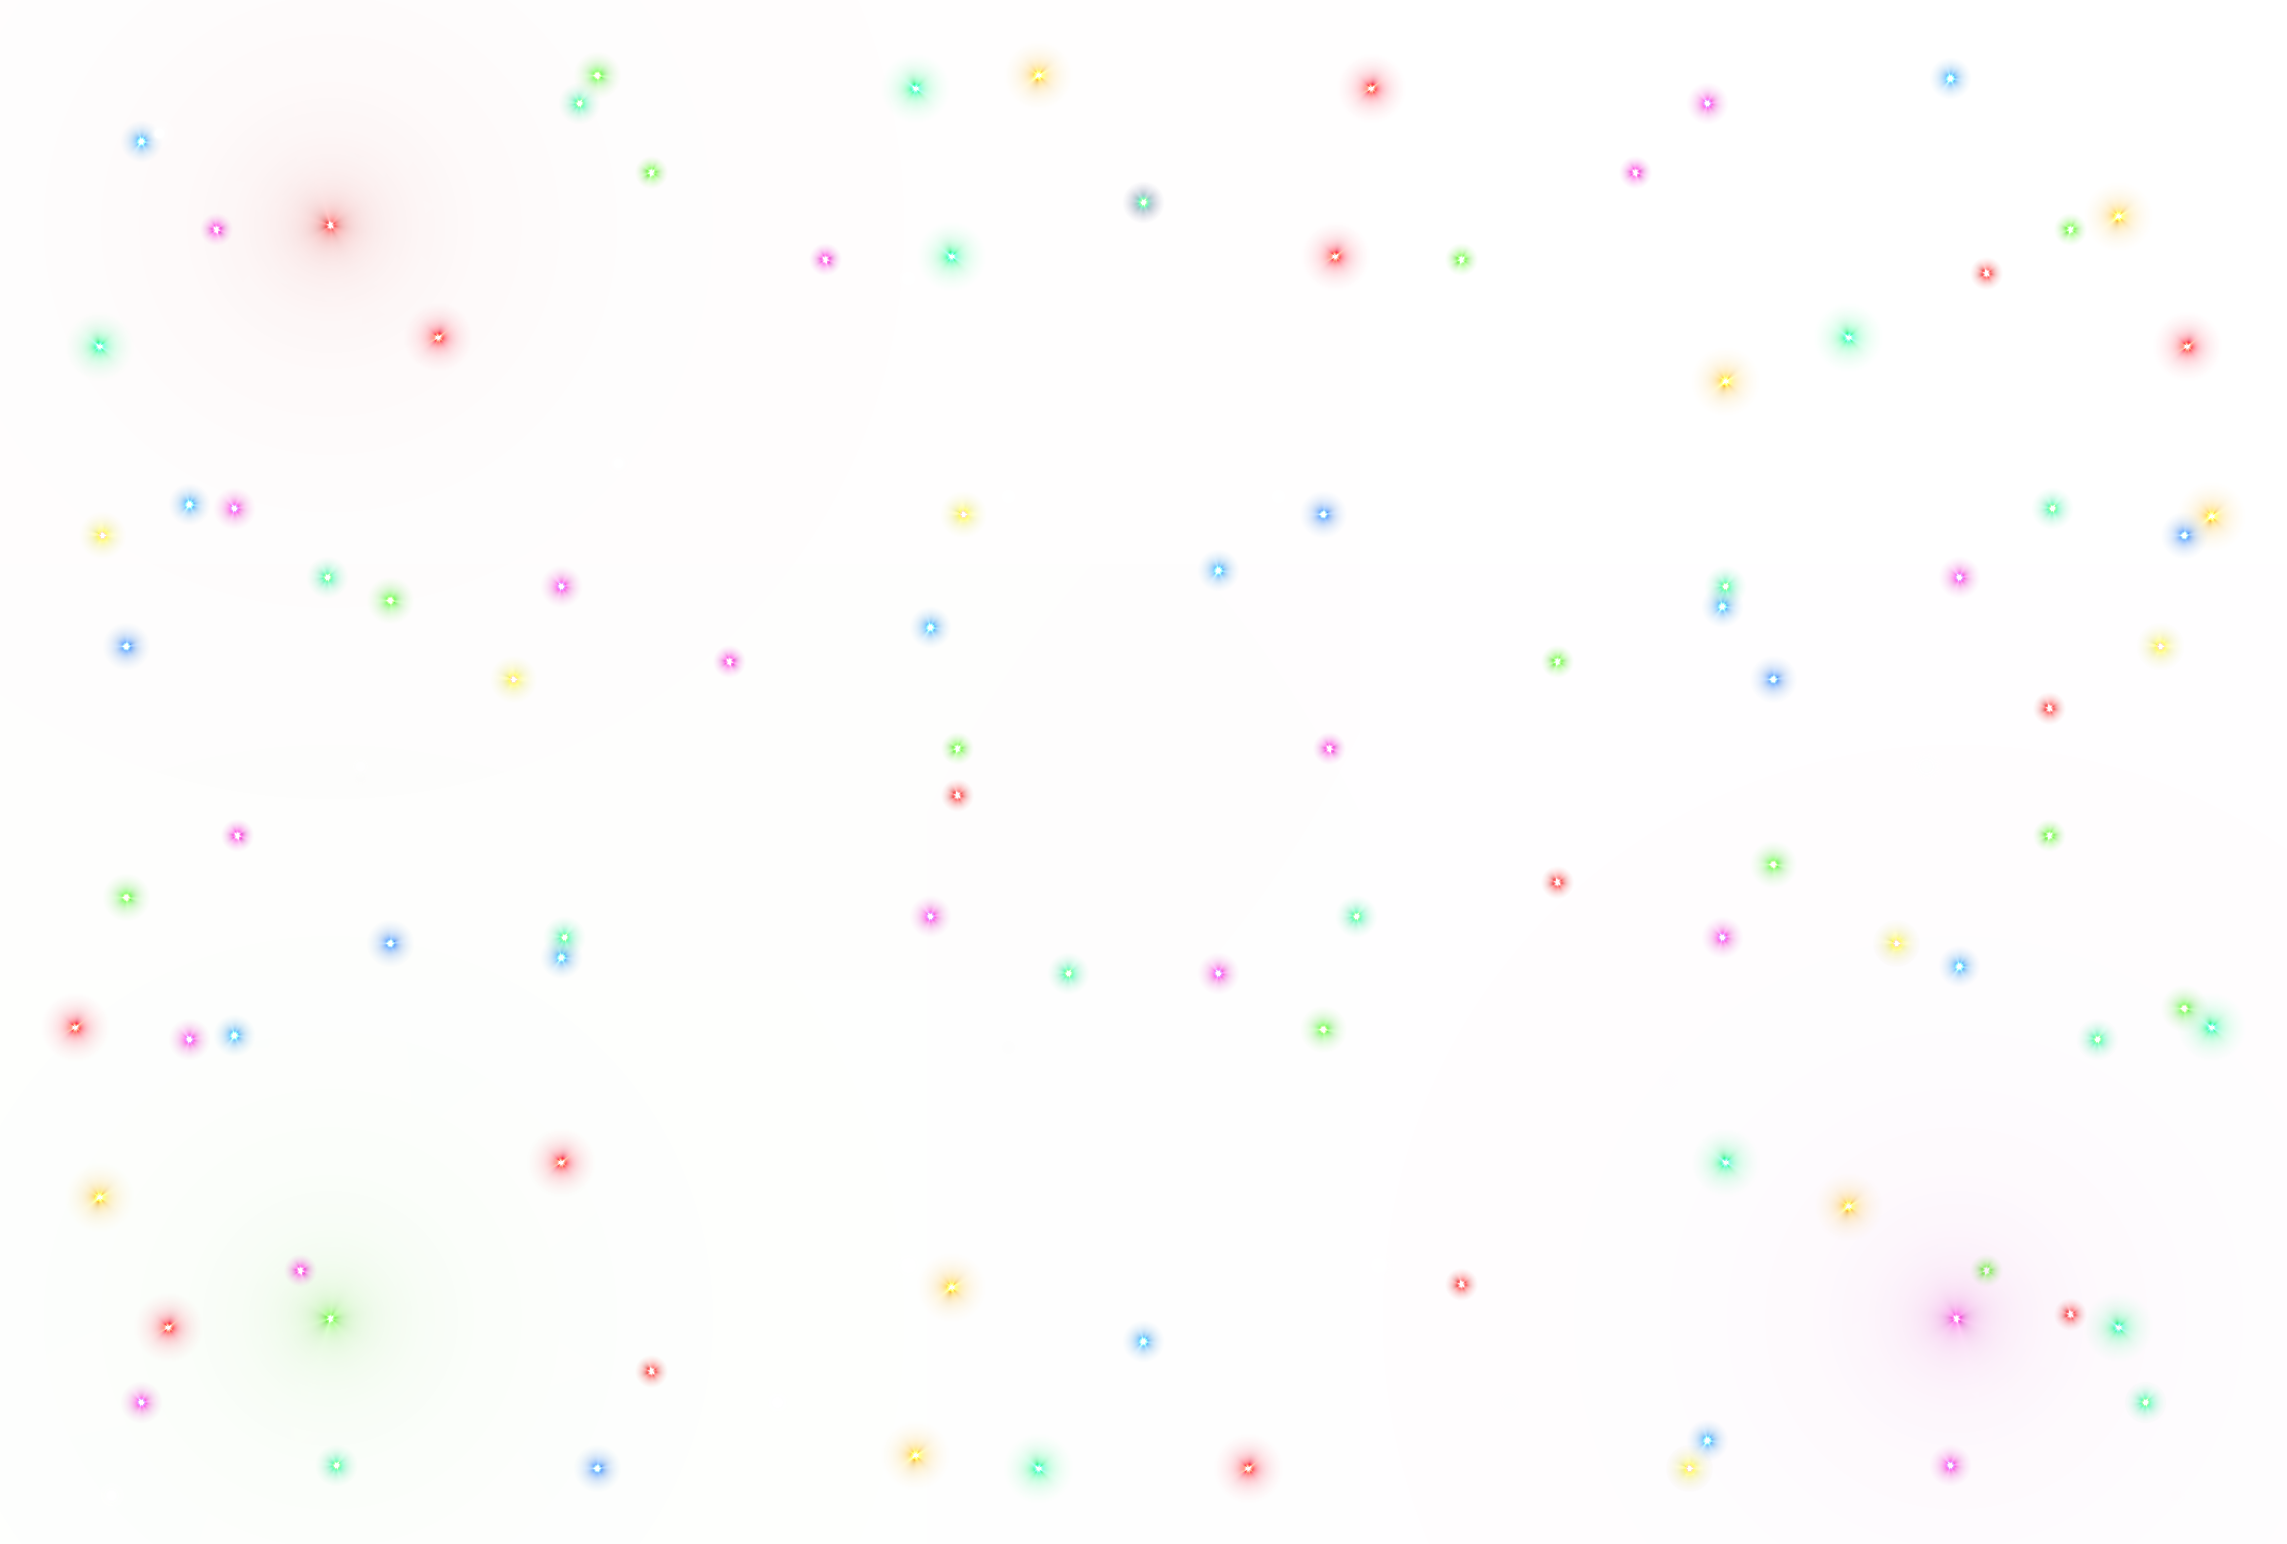
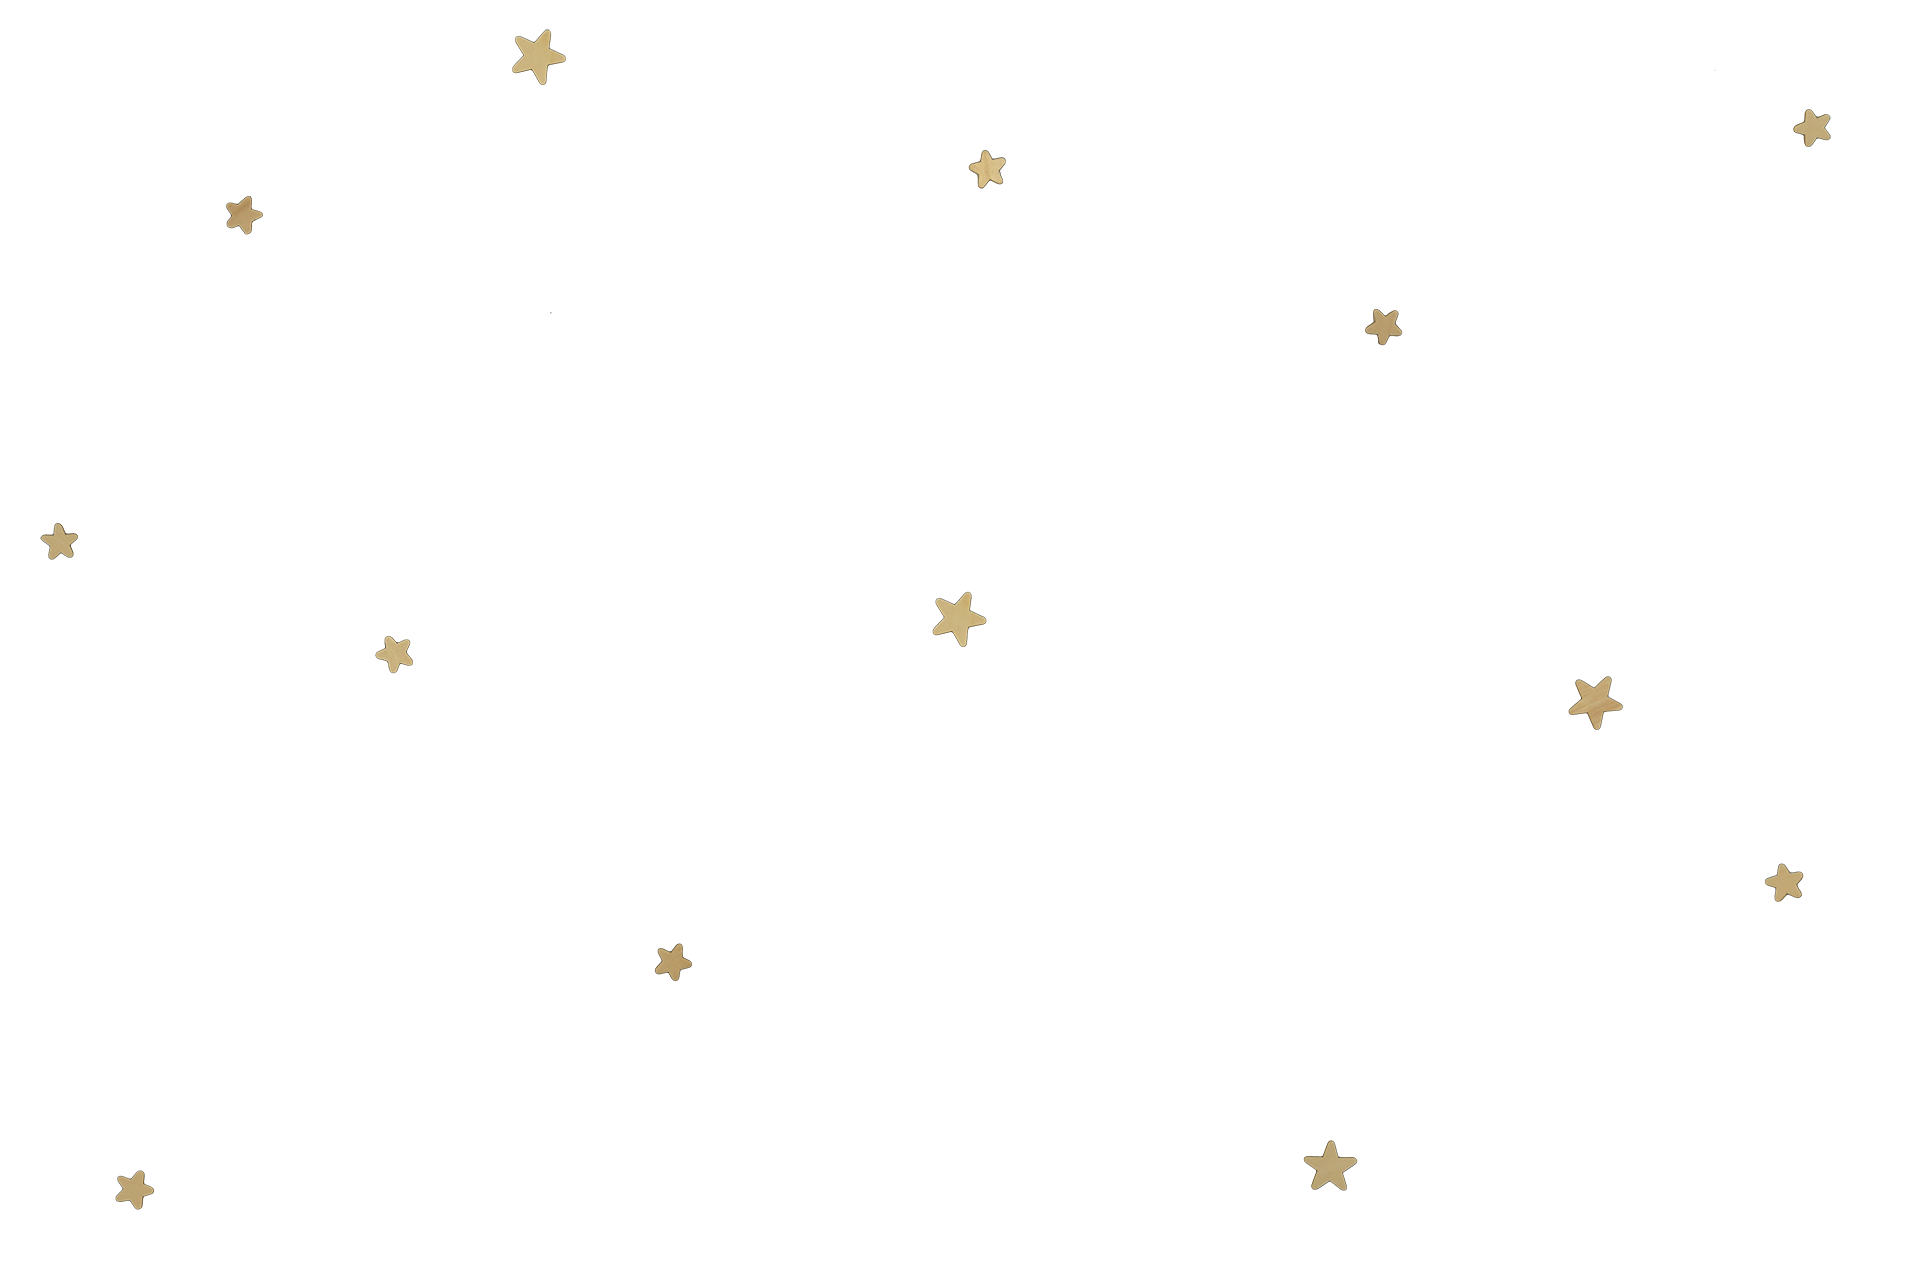
add a parallax effect

diff --git a/public/office-space/game.js b/public/office-space/game.js
@@ -36,6 +36,7 @@ class Game {
 
   preload(self){
     self.game.load.image('background', './img/background.jpg');
+    self.game.load.image('parallax', './img/parallax-background.png');
     self.game.load.spritesheet('rocket', './img/rocket-sprite.png', 250, 457);
 
     // preload all the obstacle images
@@ -47,12 +48,18 @@ class Game {
 
 
   create(self, opts){
+    var verticalFactor = 10;
+
     // setup background, world bounds and physics system
-    var background = self.game.add.tileSprite(0, 0, opts.width, opts.height*5, 'background');
+    var background = self.game.add.tileSprite(0, 0, opts.width, opts.height*verticalFactor, 'background');
     background.fixedToCamera = true;
-    self.game.world.setBounds(0, 0, opts.width, opts.height*7);
+
+    self.parallax = self.game.add.tileSprite(0, 0, opts.width, opts.height*verticalFactor, 'parallax');
+    self.parallax.fixedToCamera = true;
+
+    self.game.world.setBounds(0, 0, opts.width, opts.height*verticalFactor);
     self.game.physics.startSystem(Phaser.Physics.P2JS);
-    self.game.physics.p2.restitution = 0.5;
+    self.game.physics.p2.restitution = 0.25;
 
     // create an obstacle container and setup hit detection
     self.obstacles = self.game.add.group();
@@ -73,11 +80,13 @@ class Game {
 
     // setup player sprite
     self.player = new Player({ game : self.game });
-    window.player = self.player;
   }
 
 
   update(self){
+    // parallax the background
+    self.parallax.tilePosition.set(-self.game.camera.x/3, -self.game.camera.y/3);
+
     var playerSprite = self.player.sprite;
     if(playerSprite.y >= playerSprite.height){
       // update player position and rotation
@@ -91,7 +100,7 @@ class Game {
 
     // follow player with camera
     self.game.camera.focusOnXY(
-      playerSprite.x, playerSprite.y - playerSprite.height
+      playerSprite.x, playerSprite.y - playerSprite.height/2
     );
   }
 
